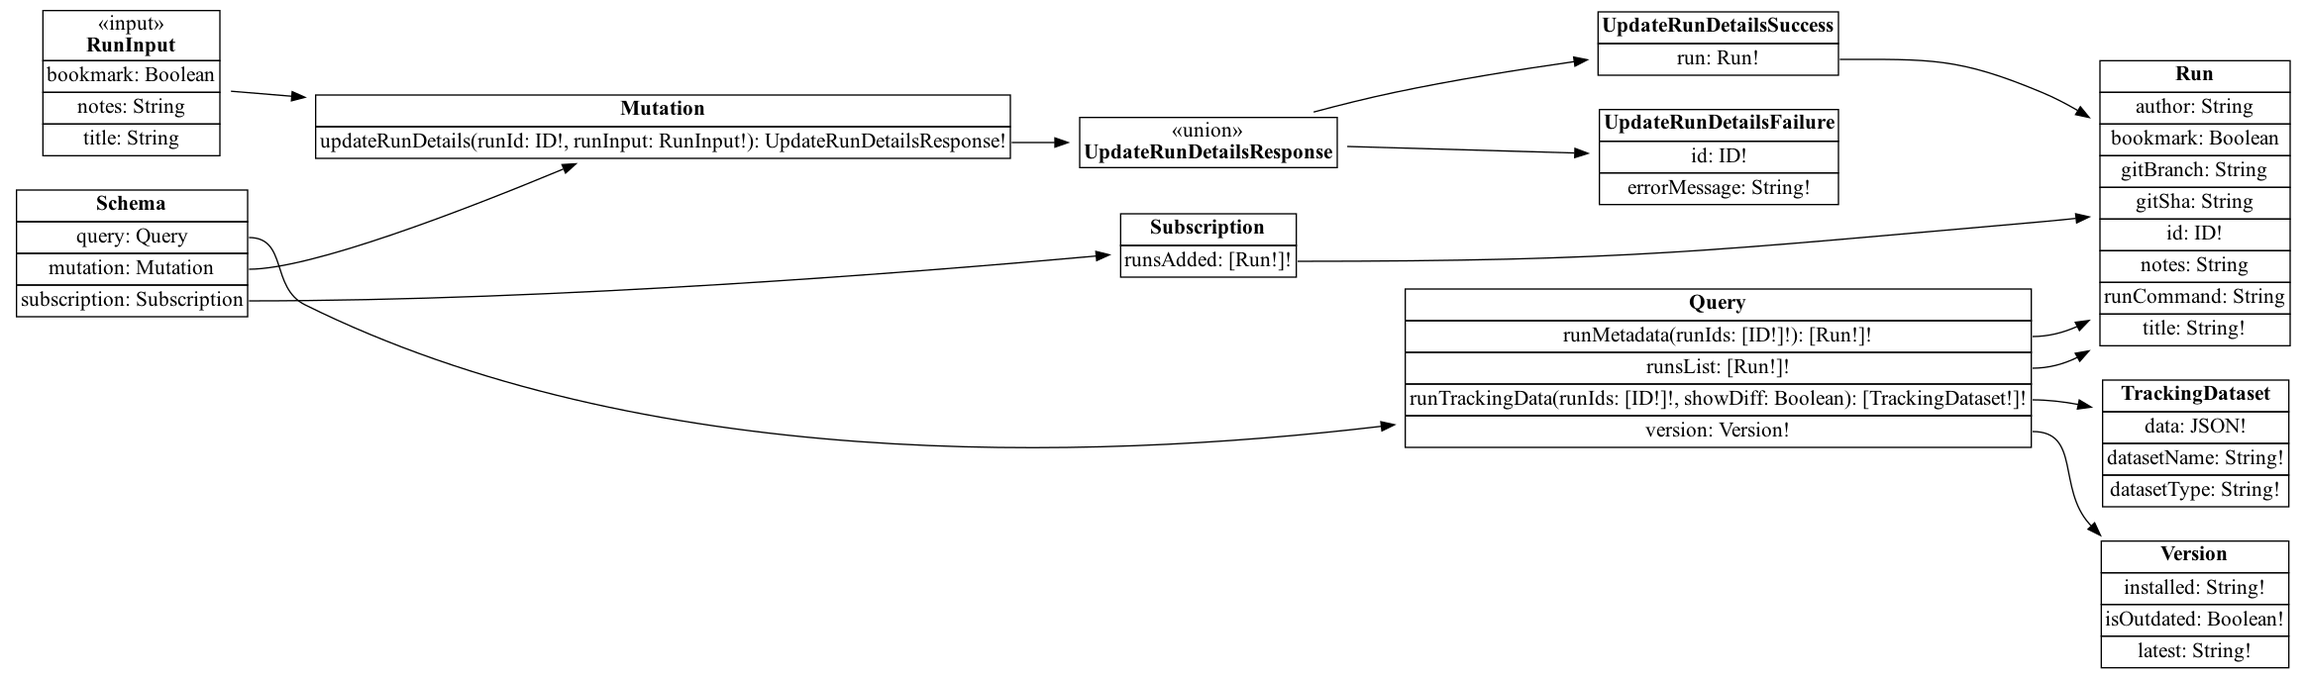
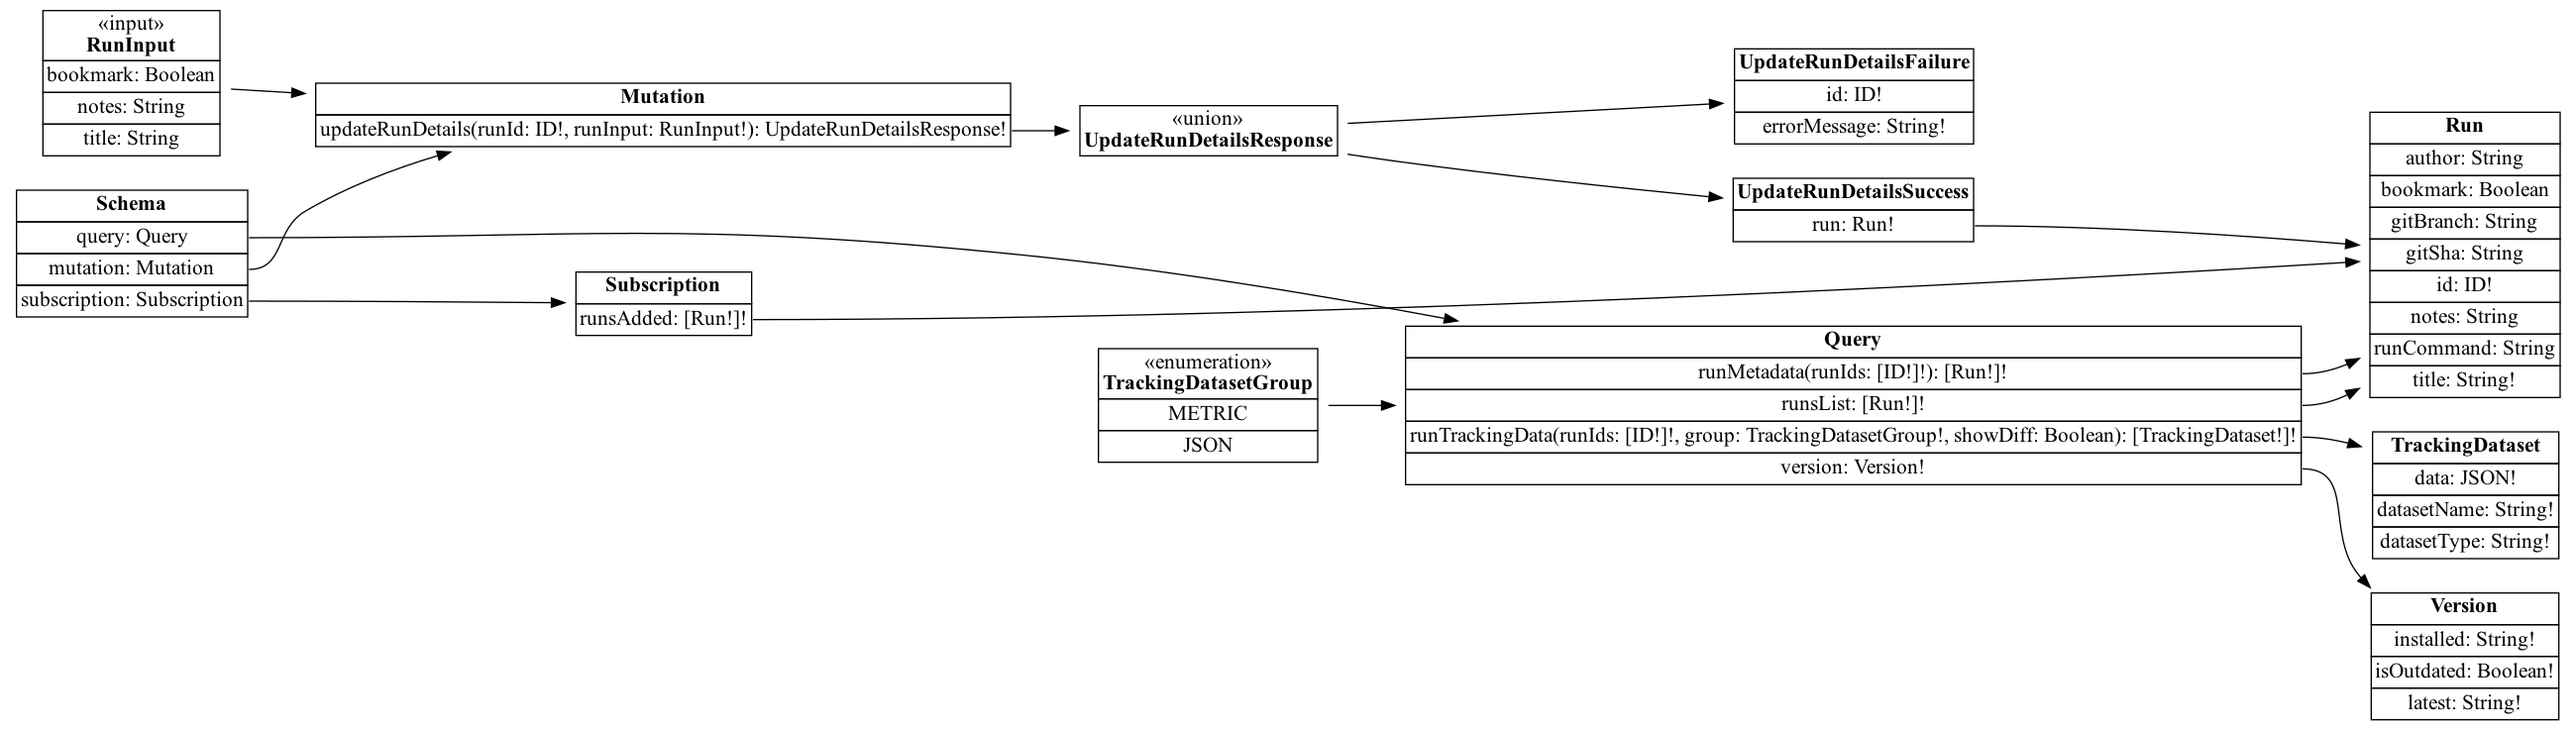
Add TrackingDatasetGroup Enum

diff --git a/package/kedro_viz/api/graphql/schema.py b/package/kedro_viz/api/graphql/schema.py
@@ -23,6 +23,7 @@ from .types import (
     Run,
     RunInput,
     TrackingDataset,
+    TrackingDatasetGroup,
     UpdateRunDetailsFailure,
     UpdateRunDetailsResponse,
     UpdateRunDetailsSuccess,
@@ -54,13 +55,18 @@ class RunsQuery:
             data_access_manager.runs.get_user_run_details_by_run_ids(all_run_ids),
         )
 
-    @strawberry.field(description="Get tracking datasets for specified run_ids")
+    @strawberry.field(
+        description="Get tracking datasets for specified group and run_ids"
+    )
     def run_tracking_data(
-        self, run_ids: List[ID], show_diff: Optional[bool] = True
+        self,
+        run_ids: List[ID],
+        group: TrackingDatasetGroup = None,
+        show_diff: Optional[bool] = True,
     ) -> List[TrackingDataset]:
         # pylint: disable=line-too-long
         tracking_dataset_models = data_access_manager.tracking_datasets.get_tracking_datasets_by_group_by_run_ids(
-            run_ids
+            run_ids, group
         )
         # TODO: this handling of dataset.runs is hacky and should be done by e.g. a
         #  proper query parameter instead of filtering to right run_ids here.

diff --git a/package/kedro_viz/data_access/repositories/tracking_datasets.py b/package/kedro_viz/data_access/repositories/tracking_datasets.py
@@ -2,7 +2,7 @@
 centralise access to datasets used in experiment tracking."""
 # pylint: disable=missing-class-docstring,missing-function-docstring,protected-access
 from collections import defaultdict
-from typing import Dict, List
+from typing import Dict, List, Optional
 
 from kedro.io import AbstractVersionedDataSet
 
@@ -28,7 +28,7 @@ class TrackingDatasetsRepository:
         ] = defaultdict(list)
 
     def get_tracking_datasets_by_group_by_run_ids(
-        self, run_ids: List[str], group: TrackingDatasetGroup = None
+        self, run_ids: List[str], group: Optional[TrackingDatasetGroup]
     ) -> List[TrackingDatasetModel]:
         # TODO: group should become required argument when we query by
         # metric and json.

diff --git a/package/kedro_viz/api/graphql/types.py b/package/kedro_viz/api/graphql/types.py
@@ -9,6 +9,10 @@ import strawberry
 from strawberry import ID
 from strawberry.scalars import JSON
 
+from kedro_viz.models.experiment_tracking import (
+    TrackingDatasetGroup as TrackingDatasetGroupModel,
+)
+
 
 @strawberry.type(description="Run metadata")
 class Run:
@@ -29,9 +33,9 @@ class TrackingDataset:
     dataset_type: str
 
 
-# TODO: something like this when we query by group.
-# from kedro_viz.models.experiment_tracking import TrackingDatasetGroup
-# TrackingDatasetGroup = @strawberry.enum(TrackingDatasetGroup)
+TrackingDatasetGroup = strawberry.enum(
+    TrackingDatasetGroupModel, description="Group to show kind of tracking data"
+)
 
 
 @strawberry.input(description="Input to update run metadata")
